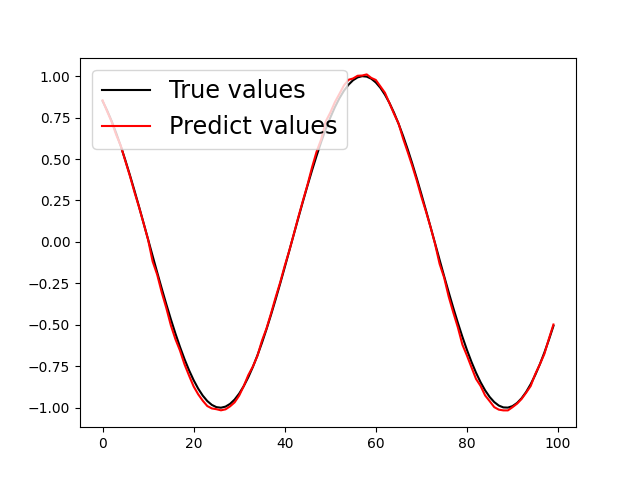
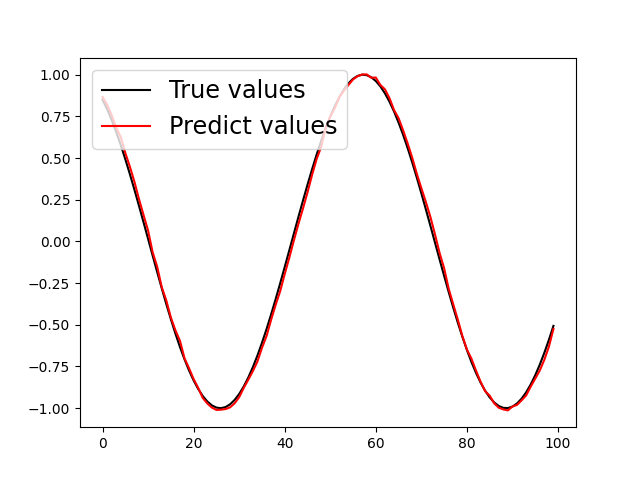
Update

diff --git a/smart_pred/model/neuralforecast_model.py b/smart_pred/model/neuralforecast_model.py
@@ -138,7 +138,7 @@ def Test():
         # "NBEATSx",
         # "TFT",
         # "VanillaTransformer",
-        # "DeepAR",
+        "DeepAR",
         # "Informer",
         # "PatchTST",
         # "Autoformer", # mps不能用
